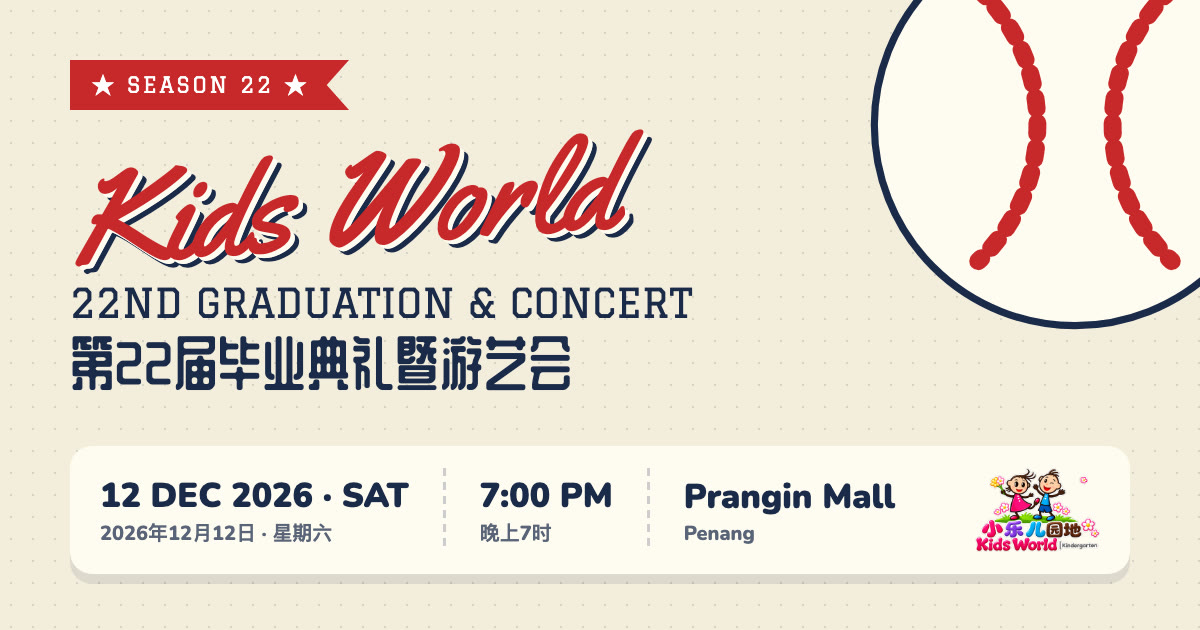
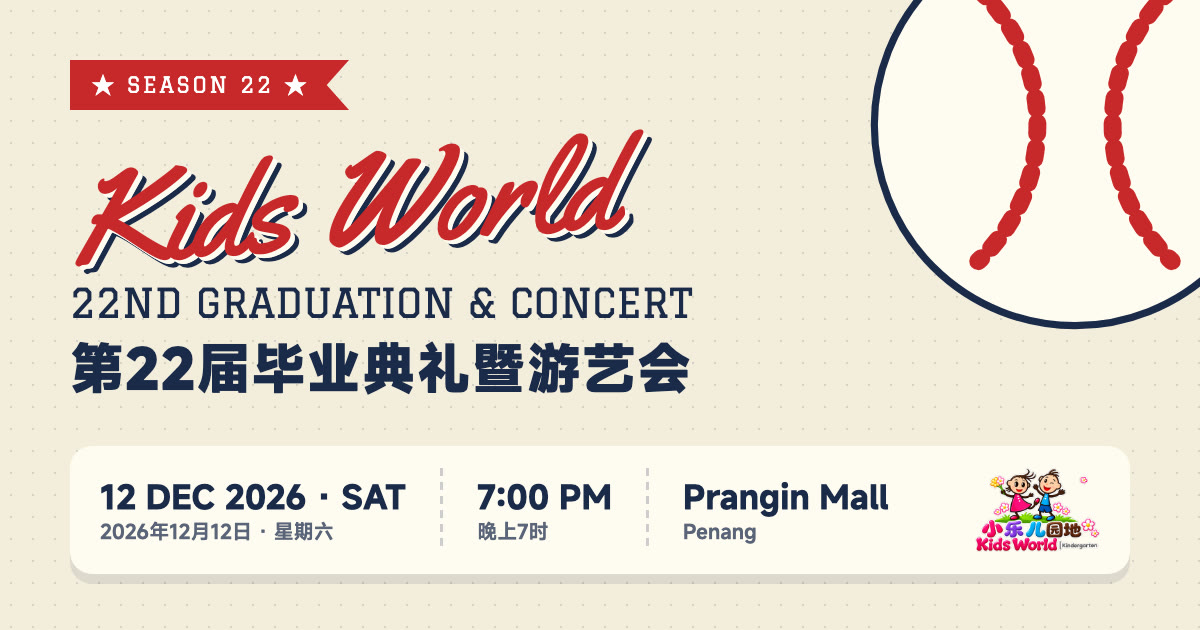
ui(invite): readable text in MiSans; fix mobile ticket header

diff --git a/graduation-2026/index.html b/graduation-2026/index.html
@@ -24,7 +24,13 @@
 </script>
 <link rel="preconnect" href="https://fonts.googleapis.com">
 <link rel="preconnect" href="https://fonts.gstatic.com" crossorigin>
-<link href="https://fonts.googleapis.com/css2?family=Graduate&family=Yellowtail&family=Nunito:wght@400;700;800;900&family=ZCOOL+QingKe+HuangYou&display=swap" rel="stylesheet">
+<link href="https://fonts.googleapis.com/css2?family=Graduate&family=Yellowtail&display=swap" rel="stylesheet">
+<!-- MiSans(小米,免费商用):所有要读的文字。jsDelivr 上的分包字体,按用到的字按需下载 -->
+<link rel="stylesheet" href="https://cdn.jsdelivr.net/npm/misans@4.1.0/lib/Normal/MiSans-Regular.min.css">
+<link rel="stylesheet" href="https://cdn.jsdelivr.net/npm/misans@4.1.0/lib/Normal/MiSans-Semibold.min.css">
+<link rel="stylesheet" href="https://cdn.jsdelivr.net/npm/misans@4.1.0/lib/Normal/MiSans-Bold.min.css">
+<link rel="stylesheet" href="https://cdn.jsdelivr.net/npm/misans@4.1.0/lib/Normal/MiSans-Heavy.min.css">
+
 <style>
 /* 棒球主题邀请页:球皮奶油底 + 缝线红 + 球场草绿 + 记分牌,深色 = 夜场 */
 :root{
@@ -46,14 +52,14 @@
 
 *{box-sizing:border-box}
 html{scroll-behavior:smooth}
-body{margin:0;background:var(--bg);color:var(--ink);font:400 17px/1.7 Nunito,"PingFang SC","Noto Sans SC",system-ui,sans-serif;overflow-x:hidden;
+body{margin:0;background:var(--bg);color:var(--ink);font:330 17px/1.75 MiSans,"PingFang SC","Noto Sans SC",system-ui,sans-serif;overflow-x:hidden;
   background-image:radial-gradient(var(--line) 1px,transparent 1.2px);background-size:22px 22px}
 a{color:inherit}
 img{max-width:100%;height:auto;display:block}
 .wrap{max-width:980px;margin:0 auto;padding-left:max(18px,env(safe-area-inset-left,0px));padding-right:max(18px,env(safe-area-inset-right,0px))}
-.varsity{font-family:Graduate,"ZCOOL QingKe HuangYou",serif;letter-spacing:.02em}
+.varsity{font-family:Graduate,MiSans,serif;letter-spacing:.02em}
 .script{font-family:Yellowtail,cursive;font-weight:400}
-.cn{font-family:"ZCOOL QingKe HuangYou","PingFang SC",sans-serif;font-weight:400}
+.cn{font-family:MiSans,"PingFang SC","Noto Sans SC",system-ui,sans-serif;font-weight:700;letter-spacing:.02em}
 :focus-visible{outline:3px solid var(--gold);outline-offset:3px}
 
 /* top bar */
@@ -90,13 +96,13 @@ img{max-width:100%;height:auto;display:block}
 .ticket .stub{border-left:3px dashed var(--line);padding:30px 22px;display:flex;flex-direction:column;justify-content:space-between;align-items:center;text-align:center;position:relative;background:repeating-linear-gradient(135deg,transparent 0 12px,color-mix(in srgb,var(--red) 7%,transparent) 12px 24px)}
 .ticket .stub::before,.ticket .stub::after{content:"";position:absolute;left:-16px;width:28px;height:28px;border-radius:50%;background:var(--bg)}
 .ticket .stub::before{top:-14px}.ticket .stub::after{bottom:-14px}
-.t-label{font:400 12px Graduate,serif;letter-spacing:.14em;color:var(--muted)}
+.t-label{font:400 12px Graduate,MiSans,serif;letter-spacing:.14em;color:var(--muted)}
 .t-head{display:flex;justify-content:space-between;align-items:flex-start;gap:12px;border-bottom:2px solid var(--ink);padding-bottom:12px;margin-bottom:16px}
 .t-head .varsity{font-size:clamp(20px,3vw,28px);line-height:1.1}
 .t-head .admit{background:var(--ink);color:var(--paper);font:400 13px Graduate,serif;letter-spacing:.1em;padding:6px 10px;border-radius:6px;white-space:nowrap}
 .t-grid{display:grid;grid-template-columns:repeat(3,minmax(0,1fr));gap:16px 18px}
-.t-grid div b{display:block;font:800 21px/1.25 Nunito,"PingFang SC";margin-top:2px}
-.t-grid div small{display:block;color:var(--muted);font-weight:700;font-size:14px}
+.t-grid div b{display:block;font:630 21px/1.3 MiSans,"PingFang SC","Noto Sans SC",system-ui,sans-serif;margin-top:2px}
+.t-grid div small{display:block;color:var(--muted);font-weight:520;font-size:14px}
 .t-grid .wide{grid-column:1/-1}
 .stub .num{font:400 64px/1 Graduate,serif;color:var(--red)}
 .stub .code{font:400 12px Graduate,serif;letter-spacing:.2em;color:var(--muted)}
@@ -108,19 +114,21 @@ img{max-width:100%;height:auto;display:block}
   .ticket .stub::before{left:-14px}.ticket .stub::after{right:-14px}
   .stub .num{font-size:44px}
   .t-grid{grid-template-columns:1fr 1fr}
+  .t-en{display:none}
+  .t-head .admit{font-size:11px;padding:5px 8px}
   .ticket .main{padding:26px 22px 20px}
 }
 
 /* actions */
 .actions{display:flex;flex-wrap:wrap;gap:12px;justify-content:center;margin-top:26px}
-.btn{display:inline-flex;align-items:center;gap:10px;font:900 16px/1 Nunito,"PingFang SC",sans-serif;text-decoration:none;padding:15px 22px;border-radius:99px;border:0;cursor:pointer;transition:transform .2s cubic-bezier(.3,1.6,.5,1)}
+.btn{display:inline-flex;align-items:center;gap:10px;font:630 16px/1 MiSans,"PingFang SC","Noto Sans SC",system-ui,sans-serif;text-decoration:none;padding:15px 22px;border-radius:99px;border:0;cursor:pointer;transition:transform .2s cubic-bezier(.3,1.6,.5,1)}
 .btn:hover{transform:translateY(-3px)}.btn:active{transform:translateY(2px)}
 .btn svg{width:20px;height:20px;flex:none}
 .btn-red{background:var(--red);color:#fff;box-shadow:0 5px 0 color-mix(in srgb,var(--red) 60%,#000)}
 :root[data-theme=dark] .btn-red{color:#14080A}
 .btn-ink{background:var(--ink);color:var(--paper);box-shadow:0 5px 0 color-mix(in srgb,var(--ink) 55%,#000)}
 .btn-line{background:var(--paper);color:var(--ink);box-shadow:inset 0 0 0 2px var(--line),0 5px 0 var(--line)}
-.copied{font-size:14px;font-weight:800;color:var(--green);min-height:1.4em;text-align:center;margin-top:8px}
+.copied{font-size:14px;font-weight:630;color:var(--green);min-height:1.4em;text-align:center;margin-top:8px}
 
 section{padding-block:56px}
 .sec-title{text-align:center;margin-bottom:26px}
@@ -135,7 +143,7 @@ section{padding-block:56px}
 .cell{text-align:center}
 .cell .digits{background:#06130D;border-radius:10px;padding:10px 4px;font:400 clamp(34px,8vw,62px)/1 Graduate,monospace;color:var(--led);text-shadow:0 0 12px color-mix(in srgb,var(--led) 60%,transparent);font-variant-numeric:tabular-nums}
 .cell .lbl{font:400 12px Graduate,serif;letter-spacing:.14em;margin-top:8px;opacity:.85}
-.cell .lbl span{font-family:"PingFang SC",sans-serif;letter-spacing:0;margin-left:4px}
+.cell .lbl span{font-family:MiSans,"PingFang SC",sans-serif;letter-spacing:0;margin-left:4px}
 .board .msg{text-align:center;font:400 14px Graduate,serif;letter-spacing:.12em;color:var(--led);margin-top:14px}
 .flip{animation:flip .35s ease}
 @keyframes flip{0%{transform:rotateX(70deg);opacity:.3}100%{transform:none;opacity:1}}
@@ -143,22 +151,22 @@ section{padding-block:56px}
 /* letter */
 .letter{background:var(--paper);border-radius:22px;box-shadow:var(--shadow);padding:34px clamp(22px,5vw,48px);max-width:760px;margin:0 auto;position:relative;overflow:hidden}
 .letter::after{content:"";position:absolute;right:-60px;top:-60px;width:180px;height:180px;border-radius:50%;border:2px dashed color-mix(in srgb,var(--red) 50%,transparent)}
-.letter .dear{font:400 30px Yellowtail,cursive;color:var(--red-text);margin:0 0 6px}
-.letter .dear.cn{font:400 26px "ZCOOL QingKe HuangYou";}
+.letter .dear{font:700 22px/1.4 MiSans,"PingFang SC","Noto Sans SC",system-ui,sans-serif;color:var(--red-text);margin:0 0 8px}
+.letter b{font-weight:630}
 .letter p{margin:0 0 12px}
 .letter hr{border:0;border-top:2px dashed var(--line);margin:26px 0}
 .sign{display:flex;align-items:center;gap:14px;margin-top:18px}
 .sign img{height:70px;width:auto}
-.sign span{font-weight:800;color:var(--muted);font-size:15px;line-height:1.4}
+.sign span{font-weight:520;color:var(--muted);font-size:15px;line-height:1.4}
 
 /* lineup */
 .lineup{max-width:720px;margin:0 auto;display:grid;gap:14px;padding:0;list-style:none}
 .lineup li{display:grid;grid-template-columns:70px 1fr auto;align-items:center;gap:18px;background:var(--paper);border-radius:18px;padding:18px 22px;box-shadow:var(--shadow)}
 .lineup .no{font:400 44px/1 Graduate,serif;color:var(--red);text-align:center}
-.lineup h3{margin:0;font:400 22px/1.2 "ZCOOL QingKe HuangYou","PingFang SC"}
-.lineup h3 small{display:block;font:800 15px Nunito;color:var(--muted);margin-top:4px}
+.lineup h3{margin:0;font:700 21px/1.3 MiSans,"PingFang SC","Noto Sans SC",system-ui,sans-serif}
+.lineup h3 small{display:block;font:520 15px MiSans,"PingFang SC","Noto Sans SC",system-ui,sans-serif;color:var(--muted);margin-top:4px}
 .lineup .pos{font:400 13px Graduate,serif;letter-spacing:.12em;border:2px solid var(--ink);border-radius:8px;padding:4px 10px}
-.lineup .note{text-align:center;color:var(--muted);font-size:14px;font-weight:700}
+.lineup .note{text-align:center;color:var(--muted);font-size:14px;font-weight:520}
 @media (max-width:520px){.lineup li{grid-template-columns:52px 1fr}.lineup .pos{display:none}.lineup .no{font-size:36px}}
 
 /* venue */
@@ -166,12 +174,12 @@ section{padding-block:56px}
 .field{background:var(--paper);border-radius:22px;box-shadow:var(--shadow);padding:16px}
 .field svg{width:100%;height:auto;display:block}
 .addr{background:var(--paper);border-radius:22px;box-shadow:var(--shadow);padding:28px}
-.addr h3{margin:0 0 10px;font:400 22px Graduate,serif}
+.addr h3{margin:0 0 10px;font:700 21px/1.3 MiSans,"PingFang SC","Noto Sans SC",system-ui,sans-serif}
 .addr p{margin:0 0 6px}
 .addr .row{display:flex;flex-wrap:wrap;gap:10px;margin-top:18px}
 @media (max-width:720px){.venue{grid-template-columns:1fr}}
 
-footer{text-align:center;padding-block:30px 60px;color:var(--muted);font-size:14px;font-weight:700}
+footer{text-align:center;padding-block:30px 60px;color:var(--muted);font-size:14px;font-weight:520}
 footer img{width:180px;margin:0 auto 10px}
 
 .reveal{transition:opacity .7s,transform .7s cubic-bezier(.2,.8,.2,1)}
@@ -215,11 +223,11 @@ footer img{width:180px;margin:0 auto 10px}
   <article class="ticket reveal" aria-label="入场券:2026年12月12日星期六晚上7时,Prangin Mall">
     <div class="main">
       <div class="t-head">
-        <div><span class="t-label">小乐儿园地 · KIDS WORLD KINDERGARTEN</span><div class="varsity">GRADUATION GAME DAY</div></div>
+        <div><span class="t-label">小乐儿园地<span class="t-en"> · KIDS WORLD KINDERGARTEN</span></span><div class="varsity">GRADUATION GAME DAY</div></div>
         <span class="admit">ADMIT FAMILY</span>
       </div>
       <div class="t-grid">
-        <div><span class="t-label">DATE 日期</span><b>12 DEC 2026</b><small>2026年12月12日 · 星期六</small></div>
+        <div><span class="t-label">DATE 日期</span><b>12 DEC 2026</b><small>2026年12月12日(星期六)</small></div>
         <div><span class="t-label">FIRST PITCH 开始</span><b>7:00 PM</b><small>晚上7时</small></div>
         <div><span class="t-label">SHOW 节目</span><b>舞蹈表演</b><small>Dances by our kids</small></div>
         <div class="wide"><span class="t-label">BALLPARK 地点</span><b>Prangin Mall · Masco Realty Management Sdn Bhd</b><small>No 33-1-123A, 33-2-123, 33-3-123C, Jalan Dr Lim Chwee Leong, 10100 Penang</small></div>
@@ -309,7 +317,7 @@ footer img{width:180px;margin:0 auto 10px}
         <a class="btn btn-red" href="https://www.google.com/maps/search/?api=1&amp;query=Prangin+Mall+Jalan+Dr+Lim+Chwee+Leong+10100+Penang" target="_blank" rel="noopener">Google Maps</a>
         <a class="btn btn-line" href="https://waze.com/ul?q=Prangin%20Mall%20Penang&amp;navigate=yes" target="_blank" rel="noopener">Waze</a>
       </div>
-      <p style="margin-top:16px;color:var(--muted);font-size:14px;font-weight:700">有疑问请联络园方 · Enquiries: <a href="tel:+6048275302">04-827 5302</a></p>
+      <p style="margin-top:16px;color:var(--muted);font-size:14px;font-weight:520">有疑问请联络园方 · Enquiries: <a href="tel:+6048275302">04-827 5302</a></p>
     </div>
   </div>
 </section>

diff --git a/logs/entries/2026-11-24-224927-433a.md b/logs/entries/2026-11-24-224927-433a.md
@@ -1,0 +1,10 @@
+## 2026-11-24
+
+### [E-2026-11-24-224927-433a] ui(invite): 邀请页要读的文字一律改用 MiSans(小米字体),装饰字留 Graduate / Yellowtail
+- **why**:用户指定邀请页「需要读的 font 都用 MiSans family」。原本中文用站酷庆科黄油体、正文用 Nunito,圆胖的展示体读长句吃力。
+- **what**:MiSans 不在 Google Fonts,用 jsDelivr 上的 `misans@4.1.0` 分包 webfont(按 unicode-range 切块,只下载用到的字),载 Regular / Semibold / Bold / Heavy 四档。只有英文装饰字(Kids World 草书、Graduate 球衣字、小标签、号码)保留原字体;邀请信、门票资料、按钮、阵容、地址、中文大标题、分享图 og.jpg 里的中文与日期都换成 MiSans。
+- **ripples**:MiSans 这个包的 font-weight 不是标准的 400/700:Regular=330、Medium=380、Semibold=520、Bold=630、Heavy=700,CSS 里要写这些数值(写 400 / 800 会被浏览器就近替换成别的档);只载了 330/520/630/700 四档,要用别的粗细得多加一个 css 链接;字体托管在 jsDelivr,jsDelivr 打不开时退回 PingFang / Noto Sans SC;首页与 /design 仍用 Nunito + 站酷快乐体,没跟着换。
+- **verified**:`npm run check` 通过;shoot.mjs 桌面 1440 浅色整页 + 手机 390 深色整页截图,MiSans 中英文都已生效;手机门票抬头英文太长折行,改成手机上只显示「小乐儿园地」;og.jpg 重截确认。
+- **keywords**:MiSans, 小米字体, 字体, font, webfont, jsDelivr, misans npm, font-weight 330, 邀请页, invitation, og.jpg
+- **learned**:
+  - [knowledge] MiSans 网页字体可用 jsDelivr 的 `misans` npm 包(`lib/Normal/MiSans-<Weight>.min.css`,按 unicode-range 分包、Apache-2.0);注意它的 font-weight 是 Regular 330 / Semibold 520 / Bold 630 / Heavy 700,不是 400/700
